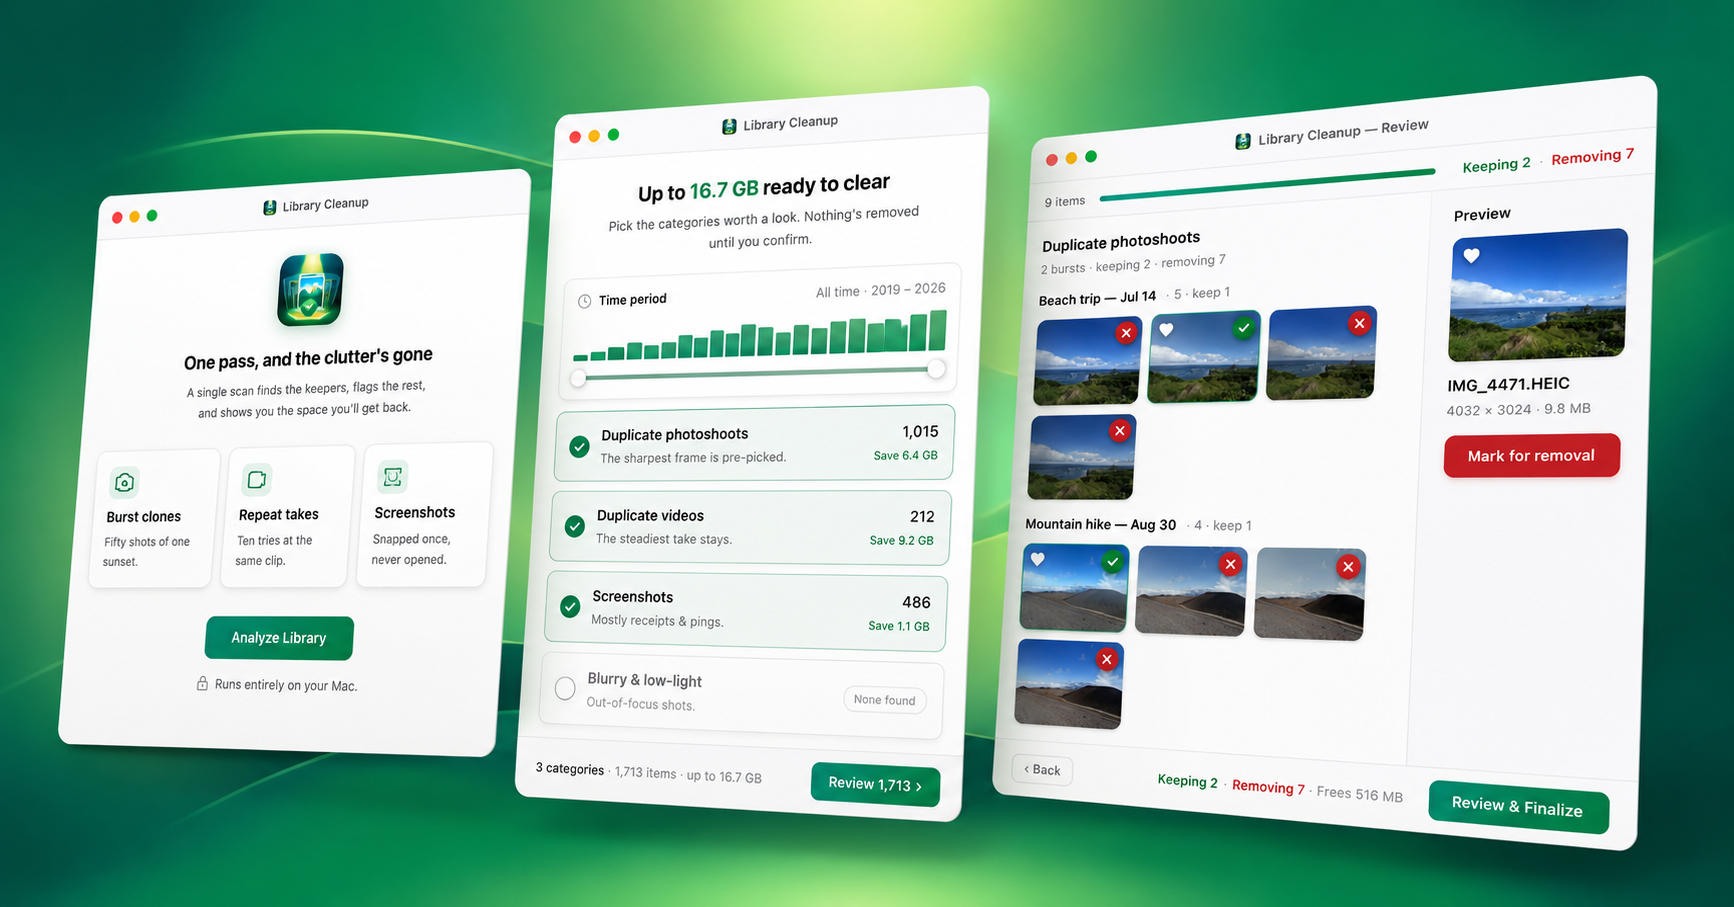
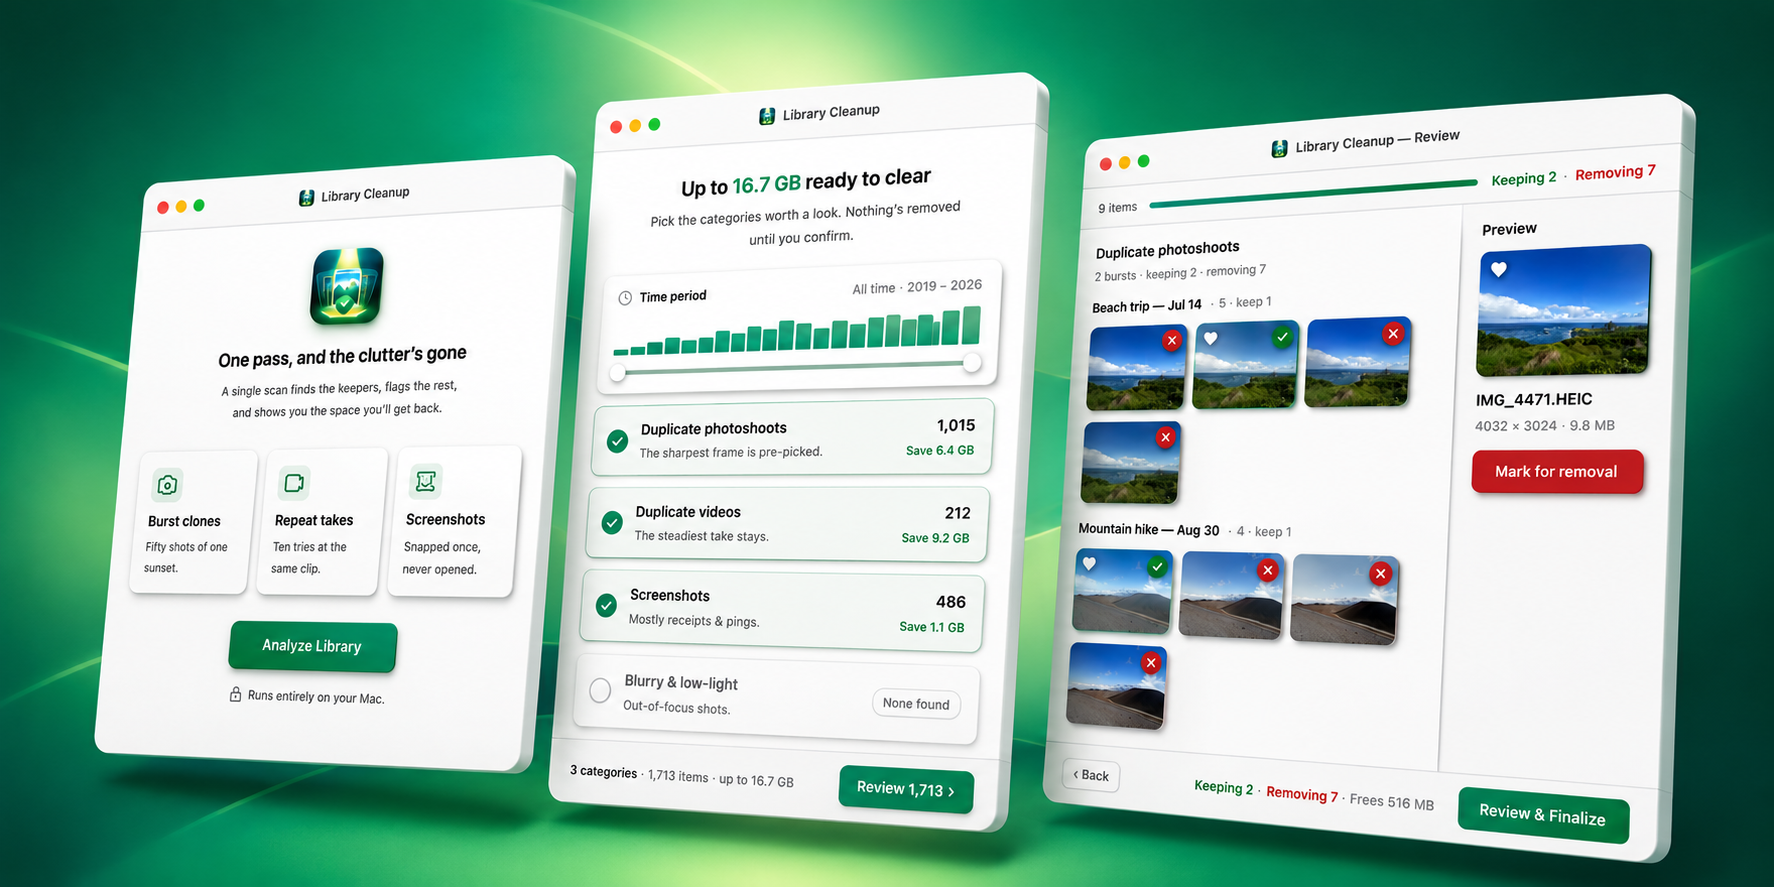
Website: sharper og:image render + meta dims

diff --git a/app/design/website/site/library-cleanup/index.html b/app/design/website/site/library-cleanup/index.html
@@ -10,8 +10,8 @@
 <meta property="og:type" content="website">
 <meta property="og:url" content="https://vaclavtrnka.cz/library-cleanup/">
 <meta property="og:image" content="https://vaclavtrnka.cz/library-cleanup/og-image.png">
-<meta property="og:image:width" content="1734">
-<meta property="og:image:height" content="907">
+<meta property="og:image:width" content="1774">
+<meta property="og:image:height" content="887">
 <meta property="og:image:alt" content="Library Cleanup — a free Mac app that tidies your photo library.">
 <meta name="twitter:card" content="summary_large_image">
 <meta name="twitter:image" content="https://vaclavtrnka.cz/library-cleanup/og-image.png">